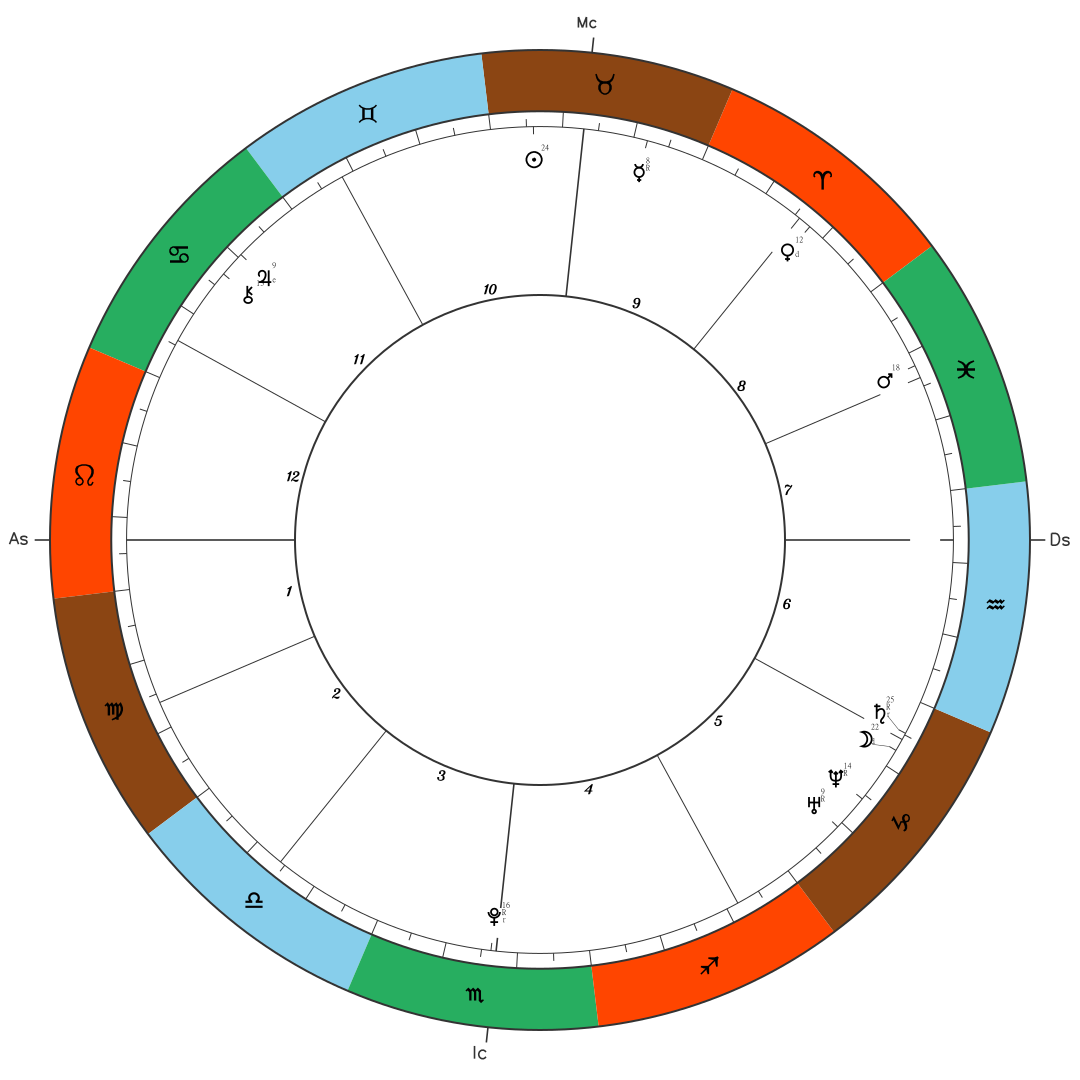
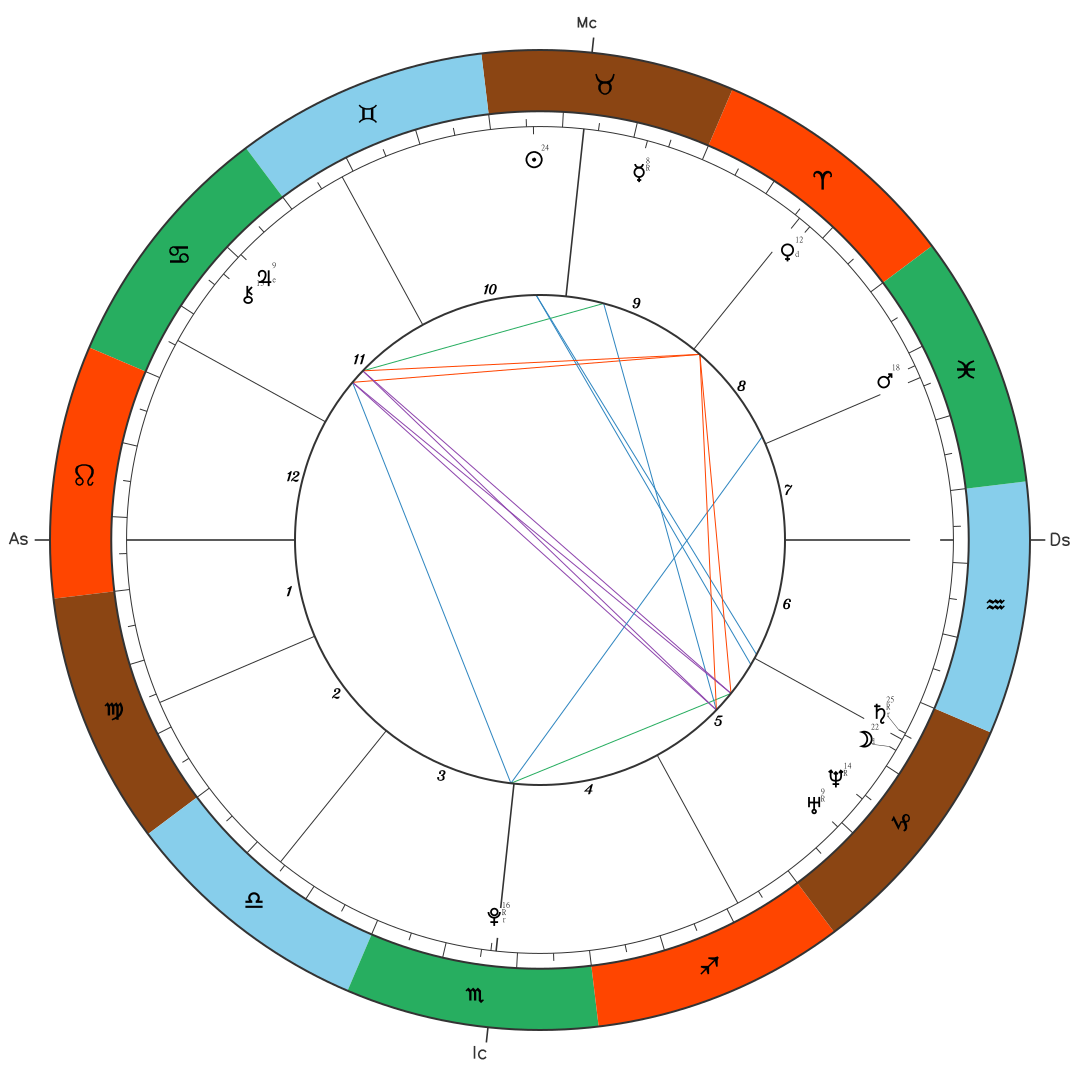
feat: draw aspect lines (행성 간 각) in natal chart
radix.aspects() + AspectCalculator로 5대 메이저 어스펙트(합/육각/사각/삼각/대)를
차트 중앙에 색상 구분 선으로 렌더. 기존엔 행성·하우스만 그려 중앙이 비어 있었음.
예제 PNG 재생성.

diff --git a/src/chart.ts b/src/chart.ts
@@ -12,6 +12,15 @@ const CHART_BODIES = [
   "Jupiter", "Saturn", "Uranus", "Neptune", "Pluto", "Chiron",
 ];
 
+// 어스펙트(행성 간 각) 정의 — 5대 메이저 전부 표시. color로 차트 중앙 선이 그려진다.
+const ASPECTS = {
+  conjunction: { degree: 0, orbit: 8, color: "#d4a017" }, // 합 (금)
+  sextile: { degree: 60, orbit: 6, color: "#27ae60" },    // 육각 (녹)
+  square: { degree: 90, orbit: 8, color: "#ff4500" },     // 사각 (적)
+  trine: { degree: 120, orbit: 8, color: "#2e86c1" },     // 삼각 (청)
+  opposition: { degree: 180, orbit: 10, color: "#8e44ad" }, // 대 (보라)
+};
+
 export async function renderNatalChartPng(chart: NatalChart, size = 1080): Promise<Buffer> {
   // astrochart는 DOM/SVG에 의존 → jsdom으로 전역 제공.
   const dom = new JSDOM(`<!DOCTYPE html><body><div id="paper"></div></body>`, {
@@ -25,6 +34,7 @@ export async function renderNatalChartPng(chart: NatalChart, size = 1080): Promi
 
   const astro = require("@astrodraw/astrochart");
   const Chart = astro.Chart;
+  const AspectCalculator = astro.AspectCalculator;
 
   const planets: Record<string, number[]> = {};
   for (const p of chart.planets) {
@@ -34,8 +44,12 @@ export async function renderNatalChartPng(chart: NatalChart, size = 1080): Promi
     }
   }
 
-  const c = new Chart("paper", size, size);
-  c.radix({ planets, cusps: chart.cusps });
+  const c = new Chart("paper", size, size, { ASPECTS });
+  const radix = c.radix({ planets, cusps: chart.cusps });
+
+  // 어스펙트 선을 차트 중앙에 그린다(행성 간 각).
+  const aspects = new AspectCalculator(planets, { ASPECTS }).radix(planets);
+  radix.aspects(aspects);
 
   const paper = dom.window.document.getElementById("paper");
   const svgEl = paper ? paper.querySelector("svg") : null;